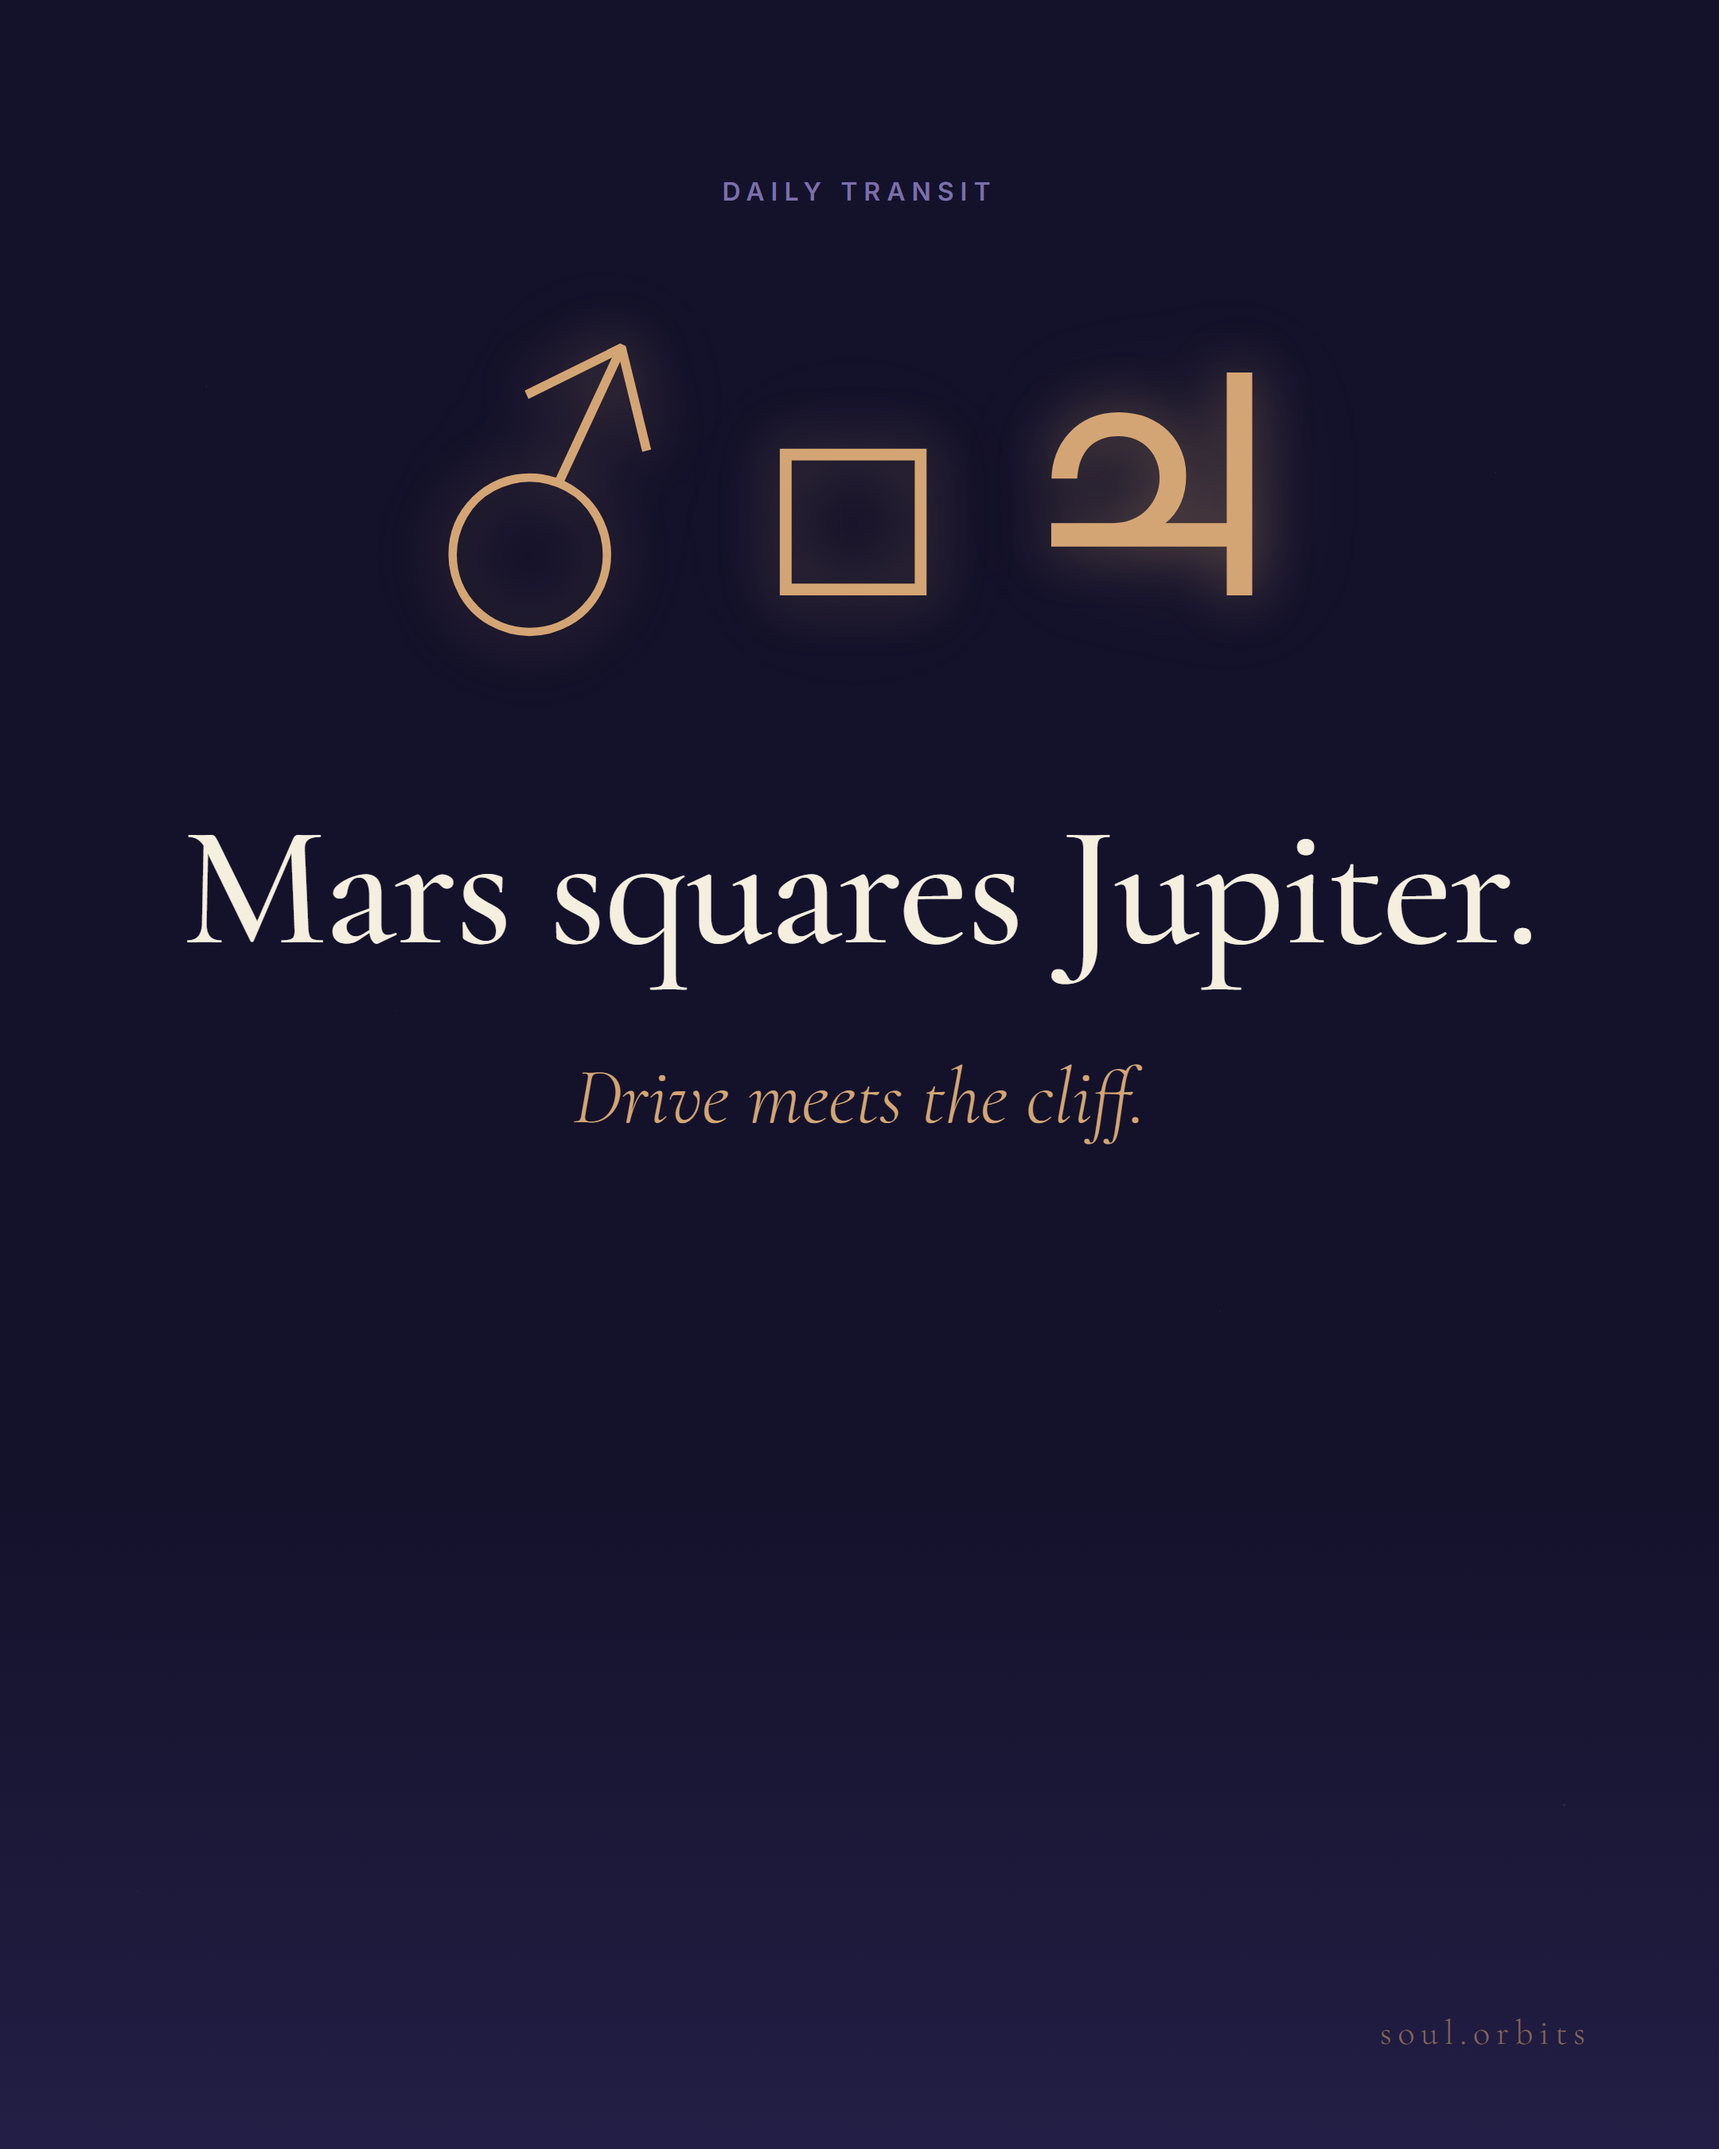
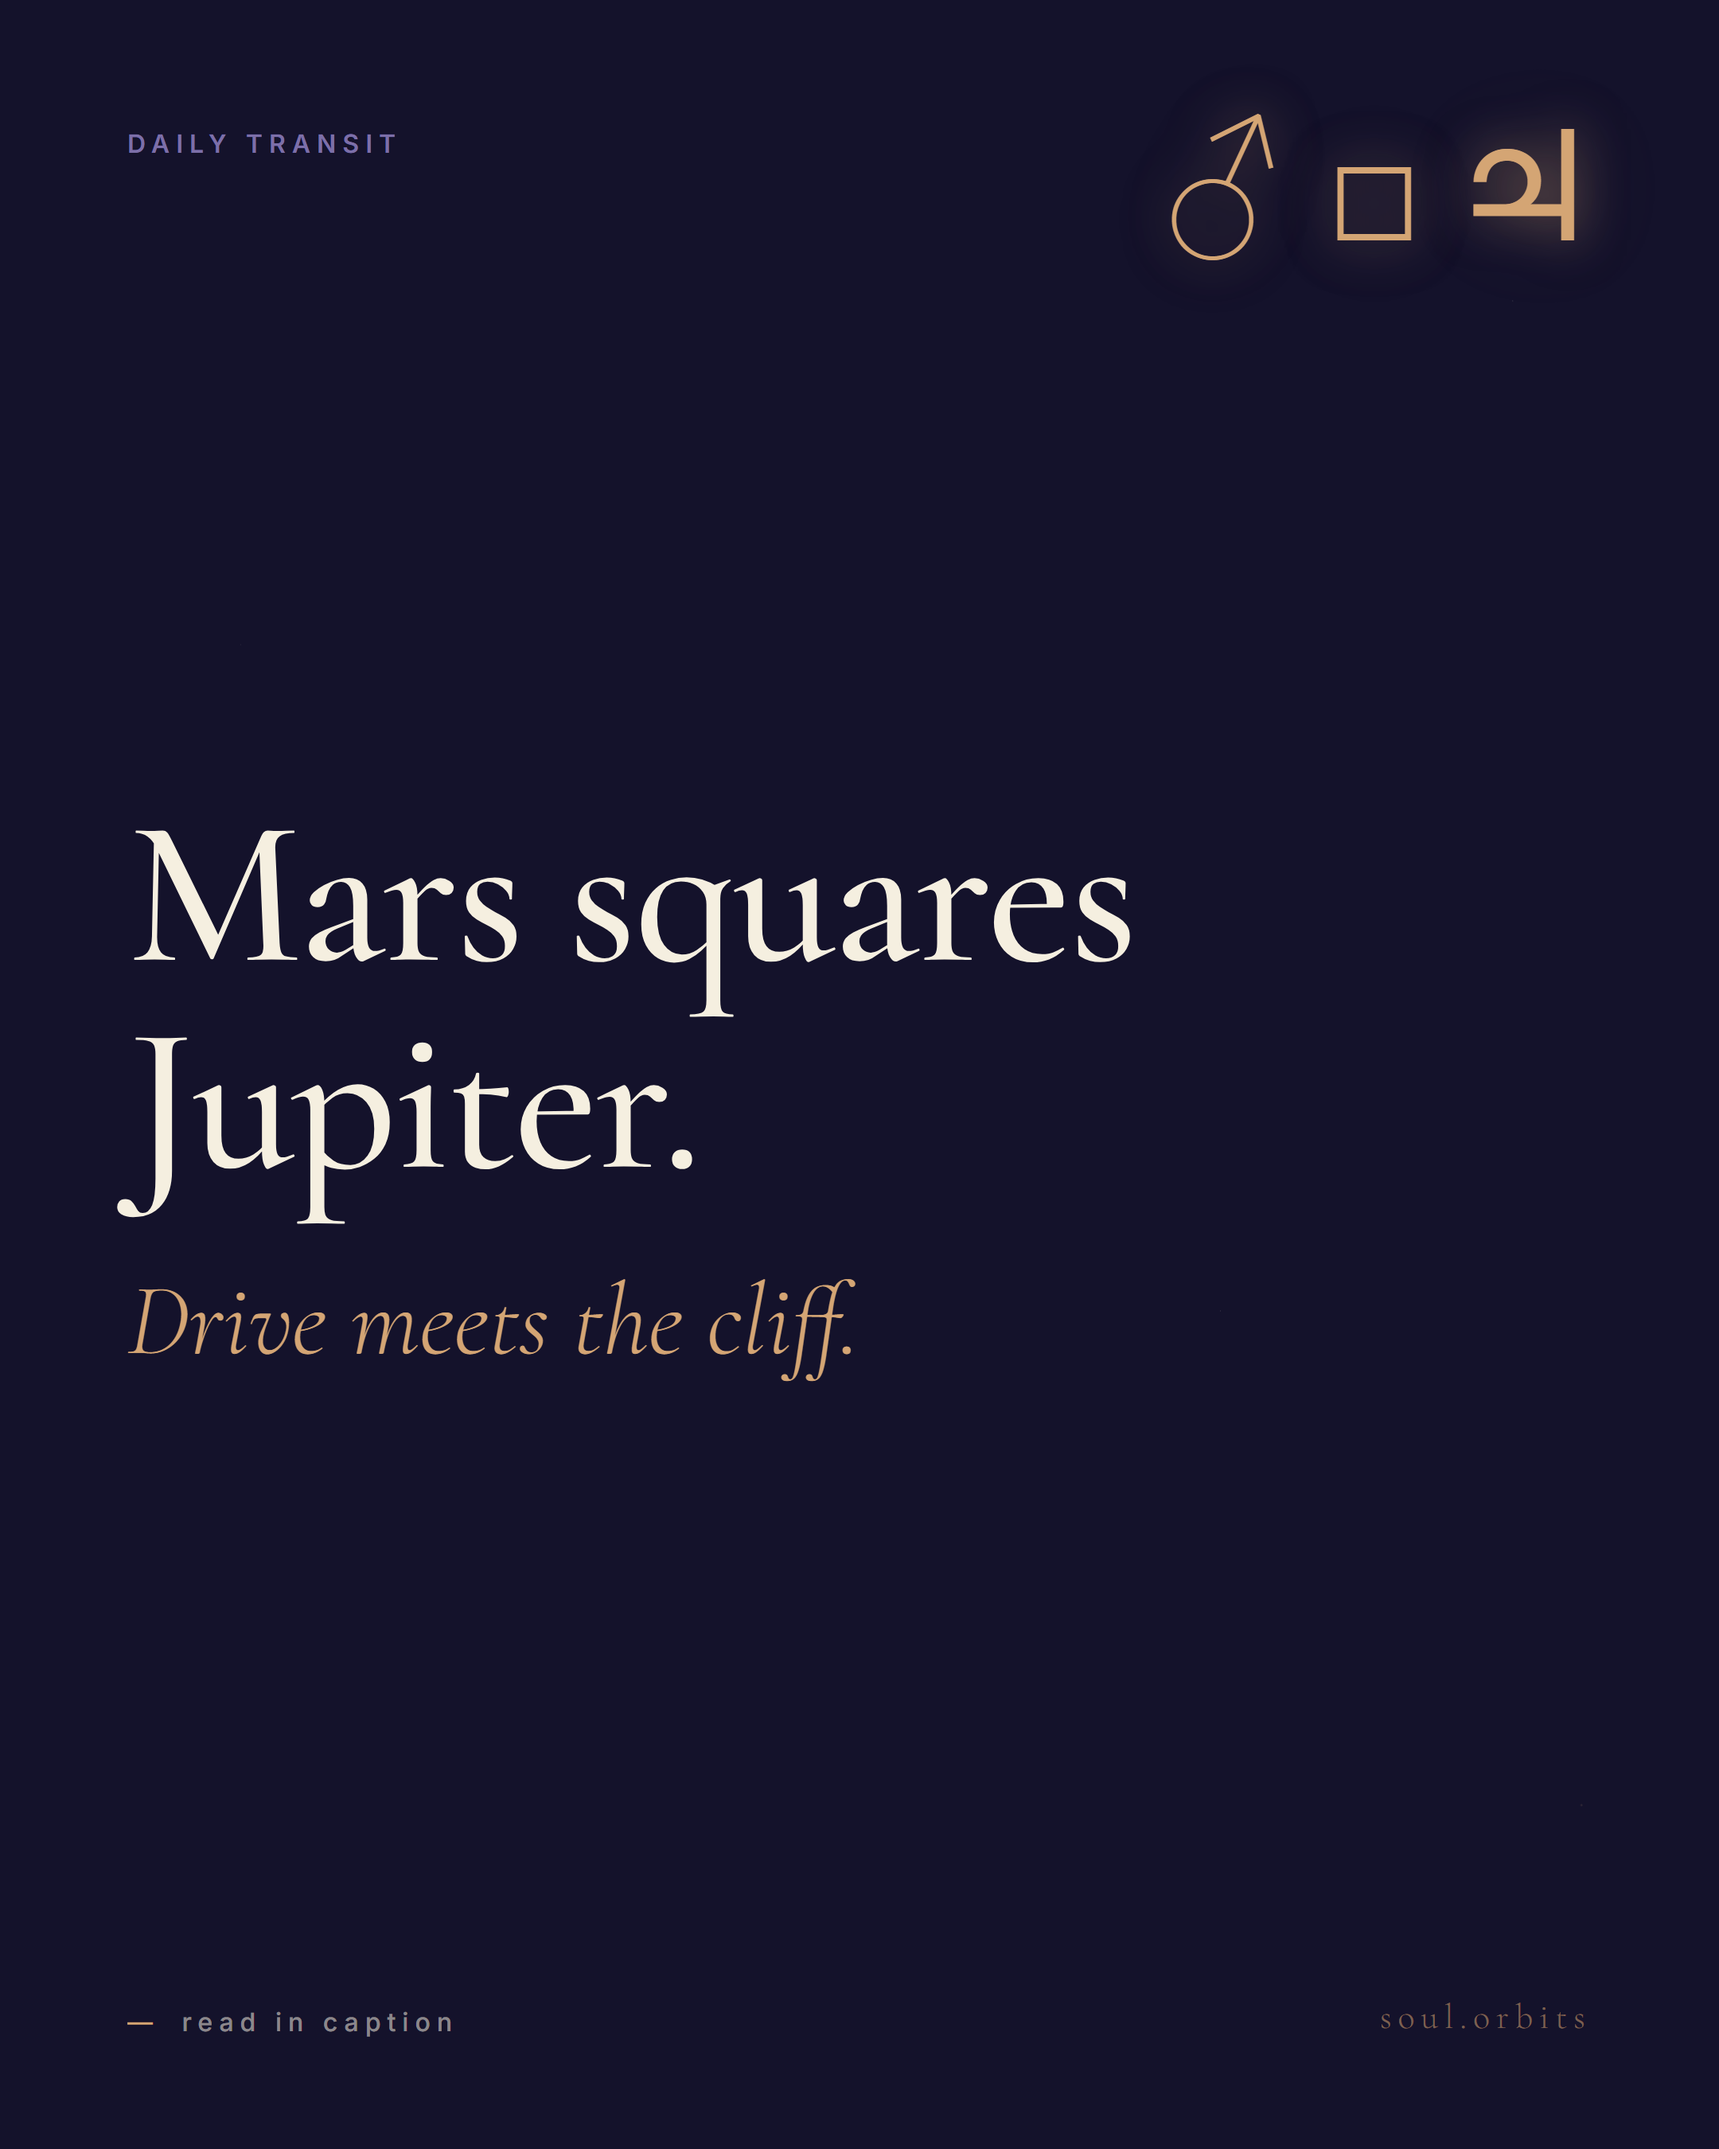
daily transit v2: editorial layout — left-aligned headline, glyph top-right

diff --git a/templates/template_a_daily_transit.html b/templates/template_a_daily_transit.html
@@ -5,7 +5,7 @@
 <title>{{HEADLINE}}</title>
 <link rel="preconnect" href="https://fonts.googleapis.com">
 <link rel="preconnect" href="https://fonts.gstatic.com" crossorigin>
-<link href="https://fonts.googleapis.com/css2?family=Cormorant+Garamond:ital,wght@0,300;0,500;0,700;1,300&family=Inter:wght@400;500;600&display=swap" rel="stylesheet">
+<link href="https://fonts.googleapis.com/css2?family=Cormorant+Garamond:ital,wght@0,300;0,500;0,700;1,300;1,500&family=Inter:wght@400;500;600&display=swap" rel="stylesheet">
 <style>
   :root {
     --deep-cosmos: #14122B;
@@ -17,27 +17,32 @@
   * { box-sizing: border-box; margin: 0; padding: 0; }
   html, body { width: 1080px; height: 1350px; overflow: hidden; }
   body {
-    background: linear-gradient(180deg, var(--deep-cosmos) 0%, var(--deep-cosmos) 70%, var(--nebula) 100%);
+    background: var(--deep-cosmos);
     font-family: 'Inter', sans-serif;
     color: var(--moonlight);
     position: relative;
+    padding: 80px 80px 70px;
     display: flex;
     flex-direction: column;
-    align-items: center;
-    padding: 90px 80px 70px;
+    justify-content: space-between;
   }
   body::before {
     content: '';
     position: absolute;
     inset: 0;
     background-image:
-      radial-gradient(1px 1px at 12% 18%, rgba(245,239,224,0.22), transparent 50%),
-      radial-gradient(1px 1px at 87% 22%, rgba(245,239,224,0.16), transparent 50%),
-      radial-gradient(1px 1px at 23% 47%, rgba(245,239,224,0.10), transparent 50%),
+      radial-gradient(1px 1px at 88% 14%, rgba(245,239,224,0.18), transparent 50%),
+      radial-gradient(1px 1px at 14% 30%, rgba(245,239,224,0.10), transparent 50%),
       radial-gradient(1px 1px at 71% 61%, rgba(245,239,224,0.18), transparent 50%),
-      radial-gradient(2px 2px at 91% 84%, rgba(212,165,116,0.18), transparent 50%),
-      radial-gradient(1px 1px at 8% 88%, rgba(245,239,224,0.10), transparent 50%);
+      radial-gradient(2px 2px at 92% 84%, rgba(212,165,116,0.18), transparent 50%);
     pointer-events: none;
+  }
+  .top {
+    position: relative;
+    z-index: 1;
+    display: flex;
+    justify-content: space-between;
+    align-items: flex-start;
   }
   .label {
     font-family: 'Inter', sans-serif;
@@ -46,54 +51,70 @@
     letter-spacing: 4px;
     text-transform: uppercase;
     color: var(--dusk-violet);
-    margin-top: 20px;
-    position: relative;
-    z-index: 1;
   }
-  .glyph {
+  .glyph-corner {
     font-family: 'Cormorant Garamond', serif;
-    font-size: 200px;
+    font-size: 100px;
     font-weight: 300;
     color: var(--old-gold);
     line-height: 1;
-    margin-top: 80px;
     text-shadow:
-      0 0 35px rgba(212,165,116,0.4),
-      0 0 70px rgba(212,165,116,0.18);
+      0 0 30px rgba(212,165,116,0.5),
+      0 0 60px rgba(212,165,116,0.2);
+    letter-spacing: 2px;
+    margin-top: -10px;
+  }
+  .middle {
     position: relative;
     z-index: 1;
-    letter-spacing: 4px;
+    flex: 1;
+    display: flex;
+    flex-direction: column;
+    justify-content: center;
+    margin-top: -60px;
   }
   .headline {
     font-family: 'Cormorant Garamond', serif;
     font-weight: 500;
-    font-size: 108px;
-    line-height: 1.08;
-    letter-spacing: -1.5px;
+    font-size: 130px;
+    line-height: 1.0;
+    letter-spacing: -2px;
     color: var(--moonlight);
-    text-align: center;
-    margin-top: 90px;
+    text-align: left;
     max-width: 920px;
-    position: relative;
-    z-index: 1;
   }
   .subline {
     font-family: 'Cormorant Garamond', serif;
     font-weight: 300;
     font-style: italic;
-    font-size: 50px;
-    line-height: 1.3;
+    font-size: 64px;
+    line-height: 1.15;
     color: var(--old-gold);
-    text-align: center;
-    margin-top: 40px;
-    max-width: 800px;
+    margin-top: 36px;
+    max-width: 880px;
+    text-align: left;
+  }
+  .bottom {
     position: relative;
     z-index: 1;
+    display: flex;
+    justify-content: space-between;
+    align-items: flex-end;
+  }
+  .read-more {
+    font-family: 'Inter', sans-serif;
+    font-size: 16px;
+    font-weight: 500;
+    letter-spacing: 4px;
+    text-transform: lowercase;
+    color: rgba(245,239,224,0.55);
+  }
+  .read-more::before {
+    content: '— ';
+    color: var(--old-gold);
+    margin-right: 6px;
   }
   .wordmark {
-    position: absolute;
-    bottom: 60px;
-    right: 80px;
     font-family: 'Cormorant Garamond', serif;
     font-weight: 300;
     font-size: 22px;
@@ -103,10 +124,17 @@
 </style>
 </head>
 <body>
-  <div class="label">{{LABEL}}</div>
-  <div class="glyph">{{GLYPH}}</div>
-  <div class="headline">{{HEADLINE}}</div>
-  <div class="subline">{{SUBLINE}}</div>
-  <div class="wordmark">soul.orbits</div>
+  <div class="top">
+    <div class="label">{{LABEL}}</div>
+    <div class="glyph-corner">{{GLYPH}}</div>
+  </div>
+  <div class="middle">
+    <div class="headline">{{HEADLINE}}</div>
+    <div class="subline">{{SUBLINE}}</div>
+  </div>
+  <div class="bottom">
+    <div class="read-more">read in caption</div>
+    <div class="wordmark">soul.orbits</div>
+  </div>
 </body>
 </html>
